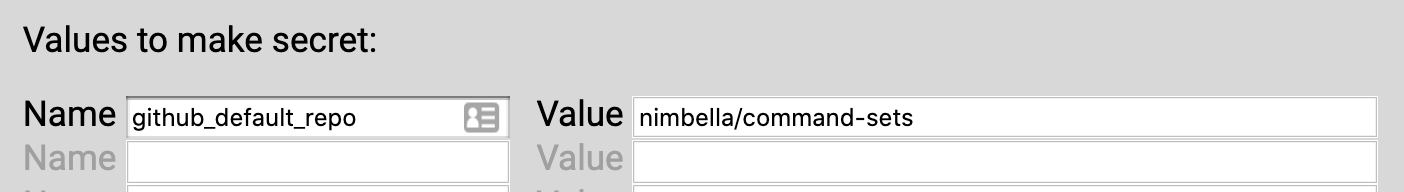
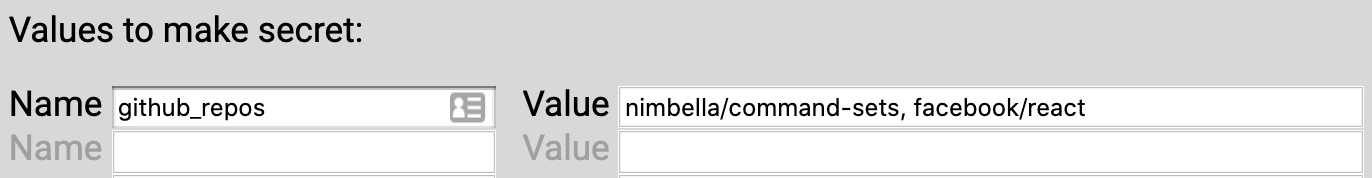
docs(github): add multi repo docs & screenshot

diff --git a/github/packages/github/github_find_pr.js b/github/packages/github/github_find_pr.js
@@ -88,7 +88,7 @@ async function _command(params, commandText, secrets = {}) {
       }
 
       result.push({
-        pretext: repo
+        pretext: `*${repo}*`
       });
 
       // Matches html tags

diff --git a/github/README.md b/github/README.md
@@ -27,9 +27,11 @@ In order to use this command set, you need to set up a Personal Access Token on 
 Use `/nc secret_create` to create secrets.
 Visit https://help.github.com/en/github/authenticating-to-github/creating-a-personal-access-token-for-the-command-line to learn how to setup a Personal Access Token on GitHub
 
-Create a secret named `github_default_repo` to avoid passing repository (`-r`) to commands.
+Create a secret named `github_repos` to avoid passing repository (`-r`) to commands.
 
 ![Secret Creator](https://raw.githubusercontent.com/nimbella/command-sets/master/github/screenshots/secret_creator.png)
+
+For commands that only work with single repository the first repository in `github_repos` is used.
 
 ## Usage
 
